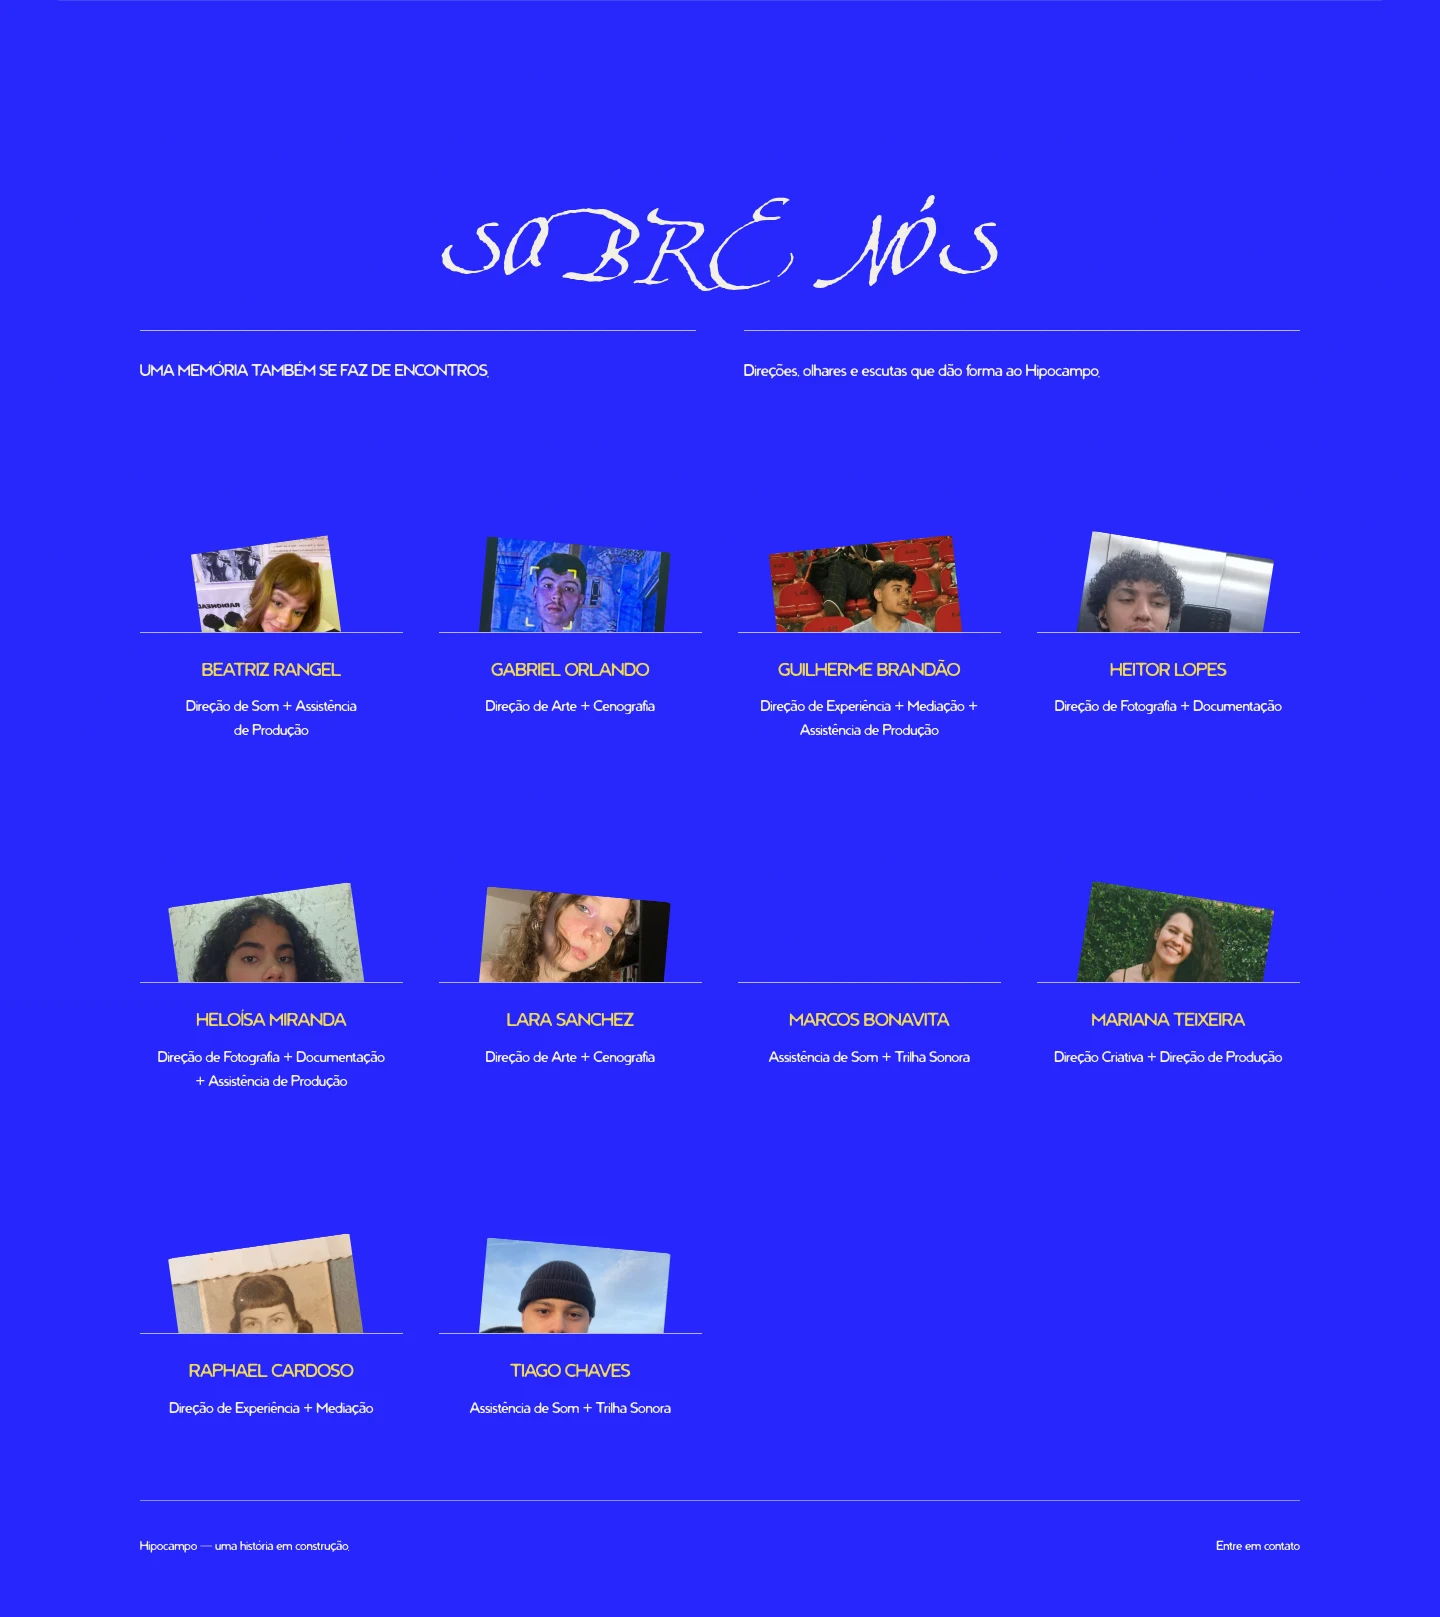
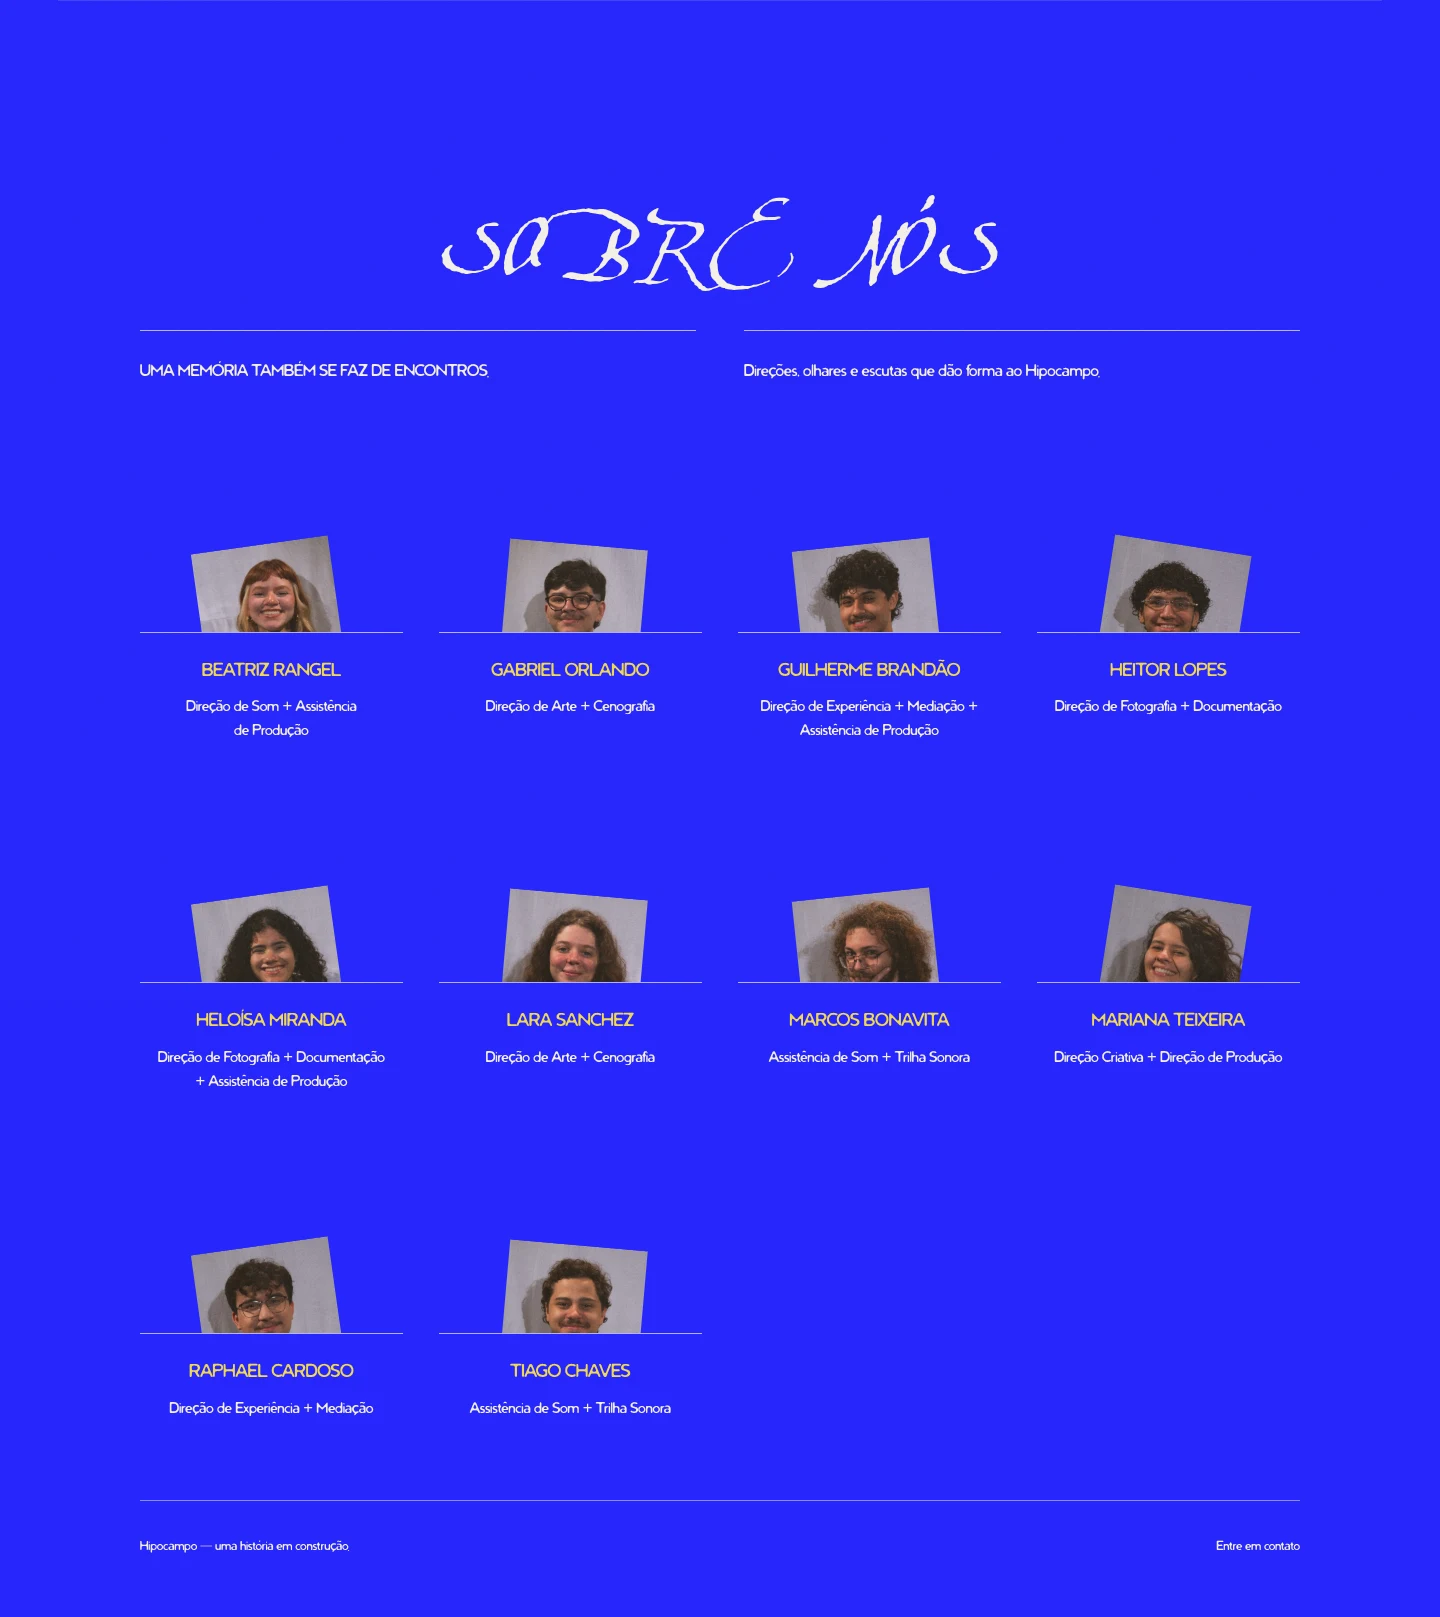
feat(equipe): atualizar dez retratos pelo arquivo nomeado do cliente

diff --git a/Kimi_Agent_HIPOCAMPO 3D Interactive Site/hipocampo/public/assets/team-members.js b/Kimi_Agent_HIPOCAMPO 3D Interactive Site/hipocampo/public/assets/team-members.js
@@ -1,8 +1,9 @@
-// Project credits supplied by the client, in Portuguese alphabetical order.
+// Named portraits from fotos.zip supplied by the client on 2026-11-14.
+// Alphabetical credits and roles preserve the client-approved project list.
 export const TEAM = [
   {
     "name": "Beatriz Rangel",
-    "portrait": "/images/team/beatriz.webp",
+    "portrait": "/images/team/beatriz-66b7eb26e08c.webp",
     "roles": [
       "Direção de Som",
       "Assistência de Produção"
@@ -10,7 +11,7 @@ export const TEAM = [
   },
   {
     "name": "Gabriel Orlando",
-    "portrait": "/images/team/gabriel.webp",
+    "portrait": "/images/team/gabriel-a9179d8a2137.webp",
     "roles": [
       "Direção de Arte",
       "Cenografia"
@@ -18,7 +19,7 @@ export const TEAM = [
   },
   {
     "name": "Guilherme Brandão",
-    "portrait": "/images/team/guilherme.webp",
+    "portrait": "/images/team/guilherme-cbae9f8d76ee.webp",
     "roles": [
       "Direção de Experiência",
       "Mediação",
@@ -27,7 +28,7 @@ export const TEAM = [
   },
   {
     "name": "Heitor Lopes",
-    "portrait": "/images/team/heitor.webp",
+    "portrait": "/images/team/heitor-8a253cab9b3c.webp",
     "roles": [
       "Direção de Fotografia",
       "Documentação"
@@ -35,7 +36,7 @@ export const TEAM = [
   },
   {
     "name": "Heloísa Miranda",
-    "portrait": "/images/team/heloiza.webp",
+    "portrait": "/images/team/heloisa-e8a49fc5db72.webp",
     "roles": [
       "Direção de Fotografia",
       "Documentação",
@@ -44,7 +45,7 @@ export const TEAM = [
   },
   {
     "name": "Lara Sanchez",
-    "portrait": "/images/team/lara.webp",
+    "portrait": "/images/team/lara-cdd50bedccc0.webp",
     "roles": [
       "Direção de Arte",
       "Cenografia"
@@ -52,7 +53,7 @@ export const TEAM = [
   },
   {
     "name": "Marcos Bonavita",
-    "portrait": null,
+    "portrait": "/images/team/marcos-a006a67ceead.webp",
     "roles": [
       "Assistência de Som",
       "Trilha Sonora"
@@ -60,7 +61,7 @@ export const TEAM = [
   },
   {
     "name": "Mariana Teixeira",
-    "portrait": "/images/team/mariana.webp",
+    "portrait": "/images/team/mariana-130c88ae8ddc.webp",
     "roles": [
       "Direção Criativa",
       "Direção de Produção"
@@ -68,7 +69,7 @@ export const TEAM = [
   },
   {
     "name": "Raphael Cardoso",
-    "portrait": "/images/team/raphael.webp",
+    "portrait": "/images/team/raphael-fffa415da17b.webp",
     "roles": [
       "Direção de Experiência",
       "Mediação"
@@ -76,7 +77,7 @@ export const TEAM = [
   },
   {
     "name": "Tiago Chaves",
-    "portrait": "/images/team/tiago.webp",
+    "portrait": "/images/team/tiago-a57068011063.webp",
     "roles": [
       "Assistência de Som",
       "Trilha Sonora"

diff --git a/Kimi_Agent_HIPOCAMPO 3D Interactive Site/hipocampo/index.html b/Kimi_Agent_HIPOCAMPO 3D Interactive Site/hipocampo/index.html
@@ -2,7 +2,7 @@
 <html lang="pt-BR">
   <head>
     <meta charset="UTF-8" />
-    <meta name="hipocampo-release" content="letter-immersive-fonts-20261114-1" />
+    <meta name="hipocampo-release" content="team-named-photos-20261114-1" />
     <meta name="viewport" content="width=device-width, initial-scale=1.0" />
     <meta
       name="description"
@@ -50,7 +50,7 @@
     <script type="module" src="/assets/editorial-motion.js?v=letter-immersive-1"></script>
     <script type="module" src="/assets/photo-trail.js?v=phone-gestures-1"></script>
     <script type="module" src="/assets/mobile-layout.js?v=phone-gestures-1"></script>
-    <script type="module" src="/assets/team-finale.js?v=about-title-1"></script>
+    <script type="module" src="/assets/team-finale.js?v=named-photos-1"></script>
   </head>
   <body>
     <div class="hipocampo-intro" aria-hidden="true"><svg viewBox="0 0 300 300" focusable="false"><text x="150" y="235" text-anchor="middle">H</text></svg></div>

diff --git a/Kimi_Agent_HIPOCAMPO 3D Interactive Site/hipocampo/public/assets/team-finale.js b/Kimi_Agent_HIPOCAMPO 3D Interactive Site/hipocampo/public/assets/team-finale.js
@@ -1,4 +1,4 @@
-import { TEAM } from './team-members.js?v=credits-grid-1'
+import { TEAM } from './team-members.js?v=named-photos-20261114-1'
 import { t as ScrollTrigger } from './index-BXEErpTi.js?v=perf-1'
 
 function mount() {
@@ -61,7 +61,7 @@ function mount() {
         }
       })
     } else {
-      // Credit is complete; no unrelated or invented portrait for Marcos.
+      // Keep the text credit if a future portrait is unavailable.
       portrait.classList.add('team-photo-unavailable')
       portrait.setAttribute('aria-hidden', 'true')
     }

diff --git a/Kimi_Agent_HIPOCAMPO 3D Interactive Site/hipocampo/scripts/test-team-finale.py b/Kimi_Agent_HIPOCAMPO 3D Interactive Site/hipocampo/scripts/test-team-finale.py
@@ -1,5 +1,5 @@
 """Browser checks for the alphabetical project credits and portrait interactions."""
-import asyncio,json,os
+import asyncio,json,os,re
 from pathlib import Path
 from playwright.async_api import async_playwright
 OUT=Path(__file__).resolve().parents[1]/'artifacts'/'team-credits'
@@ -9,9 +9,9 @@ EXPECTED=[
  ('Gabriel Orlando','Direção de Arte + Cenografia','gabriel'),
  ('Guilherme Brandão','Direção de Experiência + Mediação + Assistência de Produção','guilherme'),
  ('Heitor Lopes','Direção de Fotografia + Documentação','heitor'),
- ('Heloísa Miranda','Direção de Fotografia + Documentação + Assistência de Produção','heloiza'),
+ ('Heloísa Miranda','Direção de Fotografia + Documentação + Assistência de Produção','heloisa'),
  ('Lara Sanchez','Direção de Arte + Cenografia','lara'),
- ('Marcos Bonavita','Assistência de Som + Trilha Sonora',None),
+ ('Marcos Bonavita','Assistência de Som + Trilha Sonora','marcos'),
  ('Mariana Teixeira','Direção Criativa + Direção de Produção','mariana'),
  ('Raphael Cardoso','Direção de Experiência + Mediação','raphael'),
  ('Tiago Chaves','Assistência de Som + Trilha Sonora','tiago')]
@@ -32,25 +32,27 @@ async def check(browser,w,h,reduced=False):
  assert await items.locator('h3').all_text_contents()==[e[0] for e in EXPECTED]
  assert await items.locator('.team-credit-roles').all_text_contents()==[e[1] for e in EXPECTED]
  assert await root.locator('.team-letter,.team-portrait-fan').count()==0
- assert await items.locator('img').count()==9
+ assert await items.locator('img').count()==10
+ assert await root.locator('.team-photo-unavailable').count()==0
  for i,(_,_,image) in enumerate(EXPECTED):
   await go(f'.team-credit:nth-child({i+1})')
   card=items.nth(i)
   if image:
    img=card.locator('img')
-   assert await img.get_attribute('src')==f'/images/team/{image}.webp'
+   assert re.fullmatch(rf'/images/team/{image}-[a-f0-9]{{12}}\.webp',await img.get_attribute('src'))
    await img.evaluate('(e)=>e.decode()')
+   assert await img.evaluate('(e)=>e.naturalWidth===720&&e.naturalHeight===960')
   else:assert await card.locator('img,button').count()==0
  await go('.team-credit:first-child');await p.wait_for_timeout(800)
  portrait=items.first.locator('button');img=portrait.locator('img')
- baseline=await img.evaluate('(e)=>getComputedStyle(e).transform')
+ baseline=await img.evaluate('(e)=>Array.from(new DOMMatrix(getComputedStyle(e).transform).toFloat64Array())')
  if w>=768:
   await portrait.hover();await p.wait_for_timeout(750)
-  hover=await img.evaluate('(e)=>getComputedStyle(e).transform')
+  hover=await img.evaluate('(e)=>Array.from(new DOMMatrix(getComputedStyle(e).transform).toFloat64Array())')
   assert (baseline==hover)if reduced else(baseline!=hover)
   await p.screenshot(path=str(OUT/f'hover-{w}-{reduced}.png'))
   await p.mouse.move(2,2)
- # All nine original images must fit without clipping when opened, including Lara.
+ # All ten named images must fit without clipping when opened, including Lara.
  for i,(_,_,image) in enumerate(EXPECTED):
   if not image:continue
   await go(f'.team-credit:nth-child({i+1})')
@@ -70,12 +72,12 @@ async def check(browser,w,h,reduced=False):
  if reduced:
   assert await root.locator('.team-photo-float').first.evaluate('(e)=>getComputedStyle(e).animationName')=='none'
  assert await items.locator('h3 .hip-line-mask').count()==0
- await root.screenshot(path=str(OUT/f'grid-{w}-{reduced}.png'),animations='disabled',style='#root > header, #root > header *, a[href="#conteudo"] { visibility:hidden !important; }')
+ await root.screenshot(path=str(OUT/f'grid-{w}-{reduced}.png'),animations='disabled',style='#root > header, #root > header *, #root > a, .hipocampo-scroll-progress-bar { visibility:hidden !important; }')
  await go('#projeto');await p.wait_for_timeout(400)
  assert await root.locator('.team-in-view').count()==0
  assert not errors,errors
  assert not missing,missing
- print(json.dumps({'viewport':[w,h],'reducedMotion':reduced,'credits':10,'portraits':9,'alphabetical':True,'roles':True,'columns':cols,'interaction':True,'offscreenPaused':True,'errors':errors,'missingFiles':missing}),flush=True)
+ print(json.dumps({'viewport':[w,h],'reducedMotion':reduced,'credits':10,'portraits':10,'alphabetical':True,'roles':True,'columns':cols,'interaction':True,'offscreenPaused':True,'errors':errors,'missingFiles':missing}),flush=True)
  await p.close()
 async def main():
  async with async_playwright() as pw:

diff --git a/Kimi_Agent_HIPOCAMPO 3D Interactive Site/hipocampo/scripts/test-stories-letter.py b/Kimi_Agent_HIPOCAMPO 3D Interactive Site/hipocampo/scripts/test-stories-letter.py
@@ -77,7 +77,7 @@ async def check(browser,w,h,reduced=False):
   assert await p.evaluate("document.querySelector('#informacoes').getBoundingClientRect().top<innerHeight")
  assert await p.evaluate('document.documentElement.scrollWidth<=innerWidth+1')
  assert await p.locator('#informacoes .team-credit').count()==10
- assert await p.locator('#informacoes .team-credit img').count()==9
+ assert await p.locator('#informacoes .team-credit img').count()==10
  if w==1440 and not reduced:
   await p.emulate_media(reduced_motion='reduce');await p.wait_for_timeout(400)
   assert await root.get_attribute('data-letter-phase')=='open'

diff --git a/Kimi_Agent_HIPOCAMPO 3D Interactive Site/hipocampo/docs/team-finale-status.md b/Kimi_Agent_HIPOCAMPO 3D Interactive Site/hipocampo/docs/team-finale-status.md
@@ -6,18 +6,18 @@ Com o título “SOBRE NÓS”, a seção `#informacoes` usa uma grade inspirada
 
 | Pessoa | Funções | Retrato |
 | --- | --- | --- |
-| Beatriz Rangel | Direção de Som; Assistência de Produção | beatriz.webp |
-| Gabriel Orlando | Direção de Arte; Cenografia | gabriel.webp |
-| Guilherme Brandão | Direção de Experiência; Mediação; Assistência de Produção | guilherme.webp |
-| Heitor Lopes | Direção de Fotografia; Documentação | heitor.webp |
-| Heloísa Miranda | Direção de Fotografia; Documentação; Assistência de Produção | heloiza.webp |
-| Lara Sanchez | Direção de Arte; Cenografia | lara.webp |
-| Marcos Bonavita | Assistência de Som; Trilha Sonora | Não recebido; crédito em texto |
-| Mariana Teixeira | Direção Criativa; Direção de Produção | mariana.webp |
-| Raphael Cardoso | Direção de Experiência; Mediação | raphael.webp |
-| Tiago Chaves | Assistência de Som; Trilha Sonora | tiago.webp |
+| Beatriz Rangel | Direção de Som; Assistência de Produção | beatriz-66b7eb26e08c.webp |
+| Gabriel Orlando | Direção de Arte; Cenografia | gabriel-a9179d8a2137.webp |
+| Guilherme Brandão | Direção de Experiência; Mediação; Assistência de Produção | guilherme-cbae9f8d76ee.webp |
+| Heitor Lopes | Direção de Fotografia; Documentação | heitor-8a253cab9b3c.webp |
+| Heloísa Miranda | Direção de Fotografia; Documentação; Assistência de Produção | heloisa-e8a49fc5db72.webp |
+| Lara Sanchez | Direção de Arte; Cenografia | lara-cdd50bedccc0.webp |
+| Marcos Bonavita | Assistência de Som; Trilha Sonora | marcos-a006a67ceead.webp |
+| Mariana Teixeira | Direção Criativa; Direção de Produção | mariana-130c88ae8ddc.webp |
+| Raphael Cardoso | Direção de Experiência; Mediação | raphael-fffa415da17b.webp |
+| Tiago Chaves | Assistência de Som; Trilha Sonora | tiago-a57068011063.webp |
 
-Os nove retratos recebidos permanecem associados às mesmas pessoas. Nenhum retrato foi inventado para Marcos. Papéis repetidos da lista foram reunidos por pessoa; grafia dos nomes conforme a lista atual do usuário.
+Os dez retratos vêm do ZIP fotos.zip recebido em 14/11/2026 e foram associados pelos nomes dos arquivos. Todos foram substituídos, incluindo o retrato de Marcos Bonavita que faltava. Papéis repetidos da lista foram reunidos por pessoa; grafia dos nomes conforme a lista atual do usuário.
 
 ## Layout e movimento
 
@@ -31,7 +31,7 @@ Os nove retratos recebidos permanecem associados às mesmas pessoas. Nenhum retr
 
 ## Validação e publicação
 
-Build, sintaxe JS e suíte Playwright no diretório `dist`, servido pela porta 4180: desktop 1440×1000, celulares 390×844 e 320×640, além de desktop e celular com movimento reduzido. Verificados os dez nomes/funções, nove imagens, ausência de retrato inventado para Marcos, mouse, clique/toque, Escape, colunas, overflow, pausa fora de tela, console e arquivos ausentes. Todos passaram.
+Build, sintaxe JS e suíte Playwright no diretório `dist`, servido pela porta 4182: desktop 1440×1000, celulares 390×844 e 320×640, além de desktop e celular com movimento reduzido. Verificados os dez nomes/funções, dez retratos nomeados, incluindo Marcos, mouse, clique/toque, Escape, colunas, overflow, pausa fora de tela, console e arquivos ausentes. Todos passaram.
 
 Previews atuais: `docs/team-finale-preview-1440.webp` e `docs/team-finale-preview-390.webp`. O vídeo `team-finale-motion.mp4` é um registro histórico do leque anterior.
 
@@ -39,8 +39,8 @@ Produção: Cloudflare Pages conectado ao repositório `EduardoStuhr/hipocampo`,
 
 ## Ajuste de enquadramento — 14/11/2026
 
-Retirado o zoom e o object-fit cover dos retratos. As fotos preservam a proporção original com contain; no estado ativo ficam inteiramente dentro da área disponível. O movimento de flutuação para ao interagir, para não cortar o topo. Em movimento reduzido, os retratos já aparecem inteiros. Regressão verifica limites geométricos, contain e escala 1 nas nove imagens em PC, celular e movimento reduzido, incluindo Lara.
+Retirado o zoom e o object-fit cover dos retratos. As fotos preservam a proporção original com contain; no estado ativo ficam inteiramente dentro da área disponível. O movimento de flutuação para ao interagir, para não cortar o topo. Em movimento reduzido, os retratos já aparecem inteiros. Regressão verifica limites geométricos, contain e escala 1 nas dez imagens em PC, celular e movimento reduzido, incluindo Lara.
 
-## Fotos solicitadas via Drive
+## Fotos fornecidas pelo usuário
 
-O usuário forneceu a pasta 1UosI2R0KwSSMKrPRgvi35r82kKQ6fm5F para trocar as fotos e incluir pessoas. A tentativa de acesso retornou bloqueio do proxy de rede (CONNECT 403), sem listar o conteúdo. Nenhuma associação de foto/nome foi adivinhada ou alterada. Solicitado ZIP anexado com os arquivos nomeados para concluir essa parte.
+O acesso à pasta Drive foi bloqueado pela rede. O usuário enviou fotos.zip, com dez JPEGs nomeados; a atualização foi concluída a partir desse arquivo. As imagens foram convertidas para WebP 720×960, preservando orientação e proporção. Novos caminhos com hash de conteúdo impedem reutilização das fotos antigas em cache. Os caminhos antigos permanecem disponíveis para versões anteriores da página. Mapeamento auditável em docs/team-photo-import.json.

diff --git a/Kimi_Agent_HIPOCAMPO 3D Interactive Site/hipocampo/design-qa.md b/Kimi_Agent_HIPOCAMPO 3D Interactive Site/hipocampo/design-qa.md
@@ -669,3 +669,14 @@ Playwright: 1440×1000, 1366×768, 390×844, 320×640 e movimento reduzido; esta
 A atualização de fotos pelo Drive permanece bloqueada: CONNECT 403 do proxy antes de listar a pasta. Nove retratos e dez créditos anteriores foram preservados; solicitado ZIP ao usuário. Esta limitação não altera o resultado visual dos ajustes concluídos e não é tratada como substituição de fotos realizada.
 
 final result: passed
+
+
+## 2026-11-14 — Dez retratos do arquivo fotos.zip
+
+A limitação do Drive foi resolvida pelo usuário com o envio de fotos.zip. O arquivo contém dez JPEGs nomeados, um por pessoa da lista já aprovada. Correspondência feita pelos nomes dos arquivos, incluindo o retrato de Marcos Bonavita. Créditos, ordem alfabética e funções mantidos. Os nove retratos anteriores foram substituídos e o retrato que faltava foi adicionado, sem inferir identidades pela aparência.
+
+Preparação técnica: orientação EXIF respeitada e conversão de 768×1024 para 720×960 WebP, sem cortar ou retocar. URLs com hash de conteúdo evitam reutilizar imagens antigas em cache. Manifesto atualizado e mapeamento em docs/team-photo-import.json. Previews 1440/390 atualizados; inspeção do conjunto nomeado e da grade em 1440, 390 e 320 confirma dez retratos e créditos legíveis em Aquiline/SquidBoy.
+
+Verificação de browser: carregamento das dez imagens, dimensões naturais e URLs versionadas, nomes/funções exatos, ordem, mouse/toque, Escape, enquadramento contain com todos os cantos da foto dentro da janela durante interação, ausência de overflow, pausa fora da tela, console e 404. Em movimento reduzido, compara-se a matriz numérica de transform, evitando falso negativo entre none e matriz identidade equivalente. Build e sintaxe JS passaram.
+
+final result: passed
